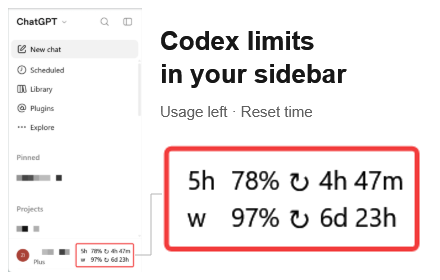
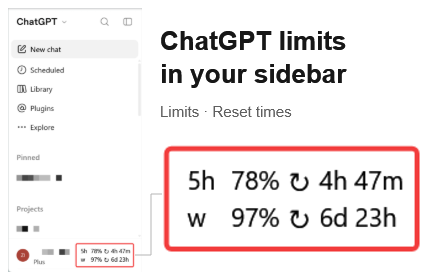
Rename project to ChatGPT Limits in Sidebar

Changed region(s): [[0.3841, 0.0857, 0.7977, 0.2], [0.3545, 0.3714, 0.7091, 0.4286]]

diff --git a/chatgpt-limits.user.js b/chatgpt-limits.user.js
@@ -1,13 +1,13 @@
 // ==UserScript==
-// @name         Codex usage in sidebar
-// @namespace    https://github.com/zizhengwu/codex-limits-in-sidebar
+// @name         ChatGPT limits in sidebar
+// @namespace    https://github.com/zizhengwu/chatgpt-limits-in-sidebar
 // @version      1.2.1
-// @description  Show remaining Codex limits and reset countdowns beside your profile.
+// @description  Show remaining ChatGPT limits and reset countdowns beside your profile.
 // @author       zizhengwu
-// @homepageURL  https://github.com/zizhengwu/codex-limits-in-sidebar
-// @supportURL   https://github.com/zizhengwu/codex-limits-in-sidebar/issues
-// @downloadURL  https://raw.githubusercontent.com/zizhengwu/codex-limits-in-sidebar/main/codex-usage.user.js
-// @updateURL    https://raw.githubusercontent.com/zizhengwu/codex-limits-in-sidebar/main/codex-usage.user.js
+// @homepageURL  https://github.com/zizhengwu/chatgpt-limits-in-sidebar
+// @supportURL   https://github.com/zizhengwu/chatgpt-limits-in-sidebar/issues
+// @downloadURL  https://raw.githubusercontent.com/zizhengwu/chatgpt-limits-in-sidebar/main/chatgpt-limits.user.js
+// @updateURL    https://raw.githubusercontent.com/zizhengwu/chatgpt-limits-in-sidebar/main/chatgpt-limits.user.js
 // @match        https://chatgpt.com/*
 // @grant        none
 // @run-at       document-idle
@@ -15,12 +15,12 @@
 
 (() => {
   'use strict';
-  if (document.getElementById('codex-usage-style')) return;
+  if (document.getElementById('chatgpt-limits-style')) return;
 
   const style = document.createElement('style');
-  style.id = 'codex-usage-style';
+  style.id = 'chatgpt-limits-style';
   style.textContent = `
-    #codex-usage {
+    #chatgpt-limits {
       flex: 0 0 auto;
       display: grid;
       grid-template-columns: max-content 4ch max-content minmax(7ch, max-content);
@@ -34,18 +34,18 @@
       white-space: nowrap;
       pointer-events: auto;
     }
-    #codex-usage:hover { opacity: .7; }
-    #codex-usage > .usage-percent { text-align: right; }
-    #codex-usage > .usage-reset { text-align: center; }
-    #codex-usage > .usage-label,
-    #codex-usage > .usage-countdown { text-align: left; }
+    #chatgpt-limits:hover { opacity: .7; }
+    #chatgpt-limits > .limits-percent { text-align: right; }
+    #chatgpt-limits > .limits-reset { text-align: center; }
+    #chatgpt-limits > .limits-label,
+    #chatgpt-limits > .limits-countdown { text-align: left; }
   `;
   document.head.append(style);
 
   const badge = document.createElement('a');
-  badge.id = 'codex-usage';
+  badge.id = 'chatgpt-limits';
   badge.href = '/settings/usage?tab=overview';
-  badge.title = 'Codex usage: loading…';
+  badge.title = 'ChatGPT limits: loading…';
 
   const labels = ['5-hour', 'Weekly'];
   function resetCountdown(reset, now) {
@@ -77,14 +77,14 @@
         ['label', label], ['percent', left], ['reset', '↻'], ['countdown', time]
       ]) {
         const cell = document.createElement('span');
-        cell.className = `usage-${name}`;
+        cell.className = `limits-${name}`;
         if (name === 'reset') cell.setAttribute('aria-hidden', 'true');
         cell.textContent = text;
         badge.append(cell);
       }
       details.push(`${labels[i]}: ${left === '—' ? 'unavailable' : left + ' left'}; resets: ${validReset ? reset.toLocaleString() : 'unavailable'}`);
     });
-    badge.setAttribute('aria-label', `Codex remaining usage. ${details.join('. ')}. Open usage settings.`);
+    badge.setAttribute('aria-label', `ChatGPT remaining limits. ${details.join('. ')}. Open limit settings.`);
     return details;
   }
   render();
@@ -114,13 +114,13 @@
         headers: { Authorization: `Bearer ${session.accessToken}` },
         signal: AbortSignal.timeout(15000)
       });
-      if (!response.ok) throw new Error(`Usage: ${response.status}`);
+      if (!response.ok) throw new Error(`Limits: ${response.status}`);
       const data = await response.json();
       const windows = [data.rate_limit?.primary_window, data.rate_limit?.secondary_window];
-      badge.title = 'Codex remaining usage (↻ time until reset)\n' + render(windows).join('\n');
+      badge.title = 'ChatGPT remaining limits (↻ time until reset)\n' + render(windows).join('\n');
     } catch (error) {
       render();
-      badge.title = `Codex usage unavailable: ${error.message}. Retrying every minute.`;
+      badge.title = `ChatGPT limits unavailable: ${error.message}. Retrying every minute.`;
     } finally {
       busy = false;
     }

diff --git a/popup.html b/popup.html
@@ -3,22 +3,22 @@
   <head>
     <meta charset="utf-8">
     <meta name="viewport" content="width=device-width, initial-scale=1">
-    <title>Codex Usage in Sidebar</title>
+    <title>ChatGPT Limits in Sidebar</title>
     <link rel="stylesheet" href="popup.css">
   </head>
   <body>
     <header>
       <img src="icons/icon-48.png" width="48" height="48" alt="">
-      <h1>Codex Usage<br>in Sidebar</h1>
+      <h1>ChatGPT Limits<br>in Sidebar</h1>
     </header>
     <p>Your remaining 5-hour and weekly limits appear beside your profile in ChatGPT’s expanded sidebar.</p>
-    <a class="button" href="https://chatgpt.com/settings/usage?tab=overview" target="_blank" rel="noopener noreferrer">Open usage settings <span aria-hidden="true">↗</span></a>
-    <p class="hint">Already have ChatGPT open? Reload it after installing. Sign in and expand the sidebar to see your usage.</p>
+    <a class="button" href="https://chatgpt.com/settings/usage?tab=overview" target="_blank" rel="noopener noreferrer">Open limit settings <span aria-hidden="true">↗</span></a>
+    <p class="hint">Already have ChatGPT open? Reload it after installing. Sign in and expand the sidebar to see your limits.</p>
     <footer>
-      <p>Uses your ChatGPT session to retrieve usage. No analytics or data sent to the developer.</p>
-      <a href="https://github.com/zizhengwu/codex-limits-in-sidebar/blob/main/PRIVACY.md" target="_blank" rel="noopener noreferrer">Privacy</a>
+      <p>Uses your ChatGPT session to retrieve limits. No analytics or data sent to the developer.</p>
+      <a href="https://github.com/zizhengwu/chatgpt-limits-in-sidebar/blob/main/PRIVACY.md" target="_blank" rel="noopener noreferrer">Privacy</a>
       <span aria-hidden="true"> · </span>
-      <a href="https://github.com/zizhengwu/codex-limits-in-sidebar/issues" target="_blank" rel="noopener noreferrer">Support</a>
+      <a href="https://github.com/zizhengwu/chatgpt-limits-in-sidebar/issues" target="_blank" rel="noopener noreferrer">Support</a>
       <p>Independent extension. Not affiliated with OpenAI.</p>
     </footer>
   </body>

diff --git a/tests/sidebar.html b/tests/sidebar.html
@@ -1,7 +1,7 @@
 <!doctype html>
 <html lang="en">
 <meta charset="utf-8">
-<title>Codex Usage in Sidebar — demonstration</title>
+<title>ChatGPT Limits in Sidebar — demonstration</title>
 <style>
   * { box-sizing: border-box; }
   body { margin: 0; font: 16px/1.5 Arial, sans-serif; color: #172b29; background: #f7faf9; }
@@ -24,9 +24,9 @@
   .caption { margin-top: 46px; color: #72817c; font-size: 13px; }
 </style>
 <main>
-  <div class="eyebrow">CODEX USAGE IN SIDEBAR</div>
+  <div class="eyebrow">CHATGPT LIMITS IN SIDEBAR</div>
   <h1>Your limits, at a glance.</h1>
-  <p class="intro">See remaining Codex usage and reset countdowns beside your ChatGPT profile.</p>
+  <p class="intro">See remaining ChatGPT limits and reset countdowns beside your ChatGPT profile.</p>
   <div class="demo">
     <div class="sidebar">
       <div class="nav"><p>New chat</p><p>Search chats</p><p>Library</p></div>
@@ -35,7 +35,7 @@
         <div><div class="row"><span class="avatar">A</span><div class="name">Alex<div class="plan">Plus</div></div></div></div>
       </div>
     </div>
-    <div class="notes"><strong>5h</strong> &nbsp; 5-hour usage remaining<br><strong>w</strong> &nbsp; Weekly usage remaining<br><strong>↻</strong> &nbsp; Time until your limit resets</div>
+    <div class="notes"><strong>5h</strong> &nbsp; 5-hour limit remaining<br><strong>w</strong> &nbsp; Weekly limit remaining<br><strong>↻</strong> &nbsp; Time until your limit resets</div>
   </div>
   <p class="caption">Example data in a demonstration sidebar. Independent extension; not affiliated with OpenAI.</p>
 </main>

diff --git a/store/LISTING.md b/store/LISTING.md
@@ -1,38 +1,38 @@
 # Chrome Web Store listing
 
-**Name:** Codex Usage in Sidebar
+**Name:** ChatGPT Limits in Sidebar
 
-**Summary:** See remaining Codex usage and reset countdowns beside your ChatGPT profile.
+**Summary:** See remaining ChatGPT limits and reset countdowns beside your ChatGPT profile.
 
 ## Description
 
-See your remaining 5-hour and weekly Codex limits in ChatGPT's sidebar. Hover for reset dates or click to open usage settings. Usage refreshes every minute while the tab is visible.
+See your remaining 5-hour and weekly ChatGPT limits in ChatGPT's sidebar. Hover for reset dates or click to open limit settings. Limits refresh every minute while the tab is visible.
 
-After installing, reload ChatGPT and expand the sidebar. You'll need a signed-in account with Codex usage limits. A dash means the data is unavailable.
+After installing, reload ChatGPT and expand the sidebar. You'll need a signed-in ChatGPT account. A dash means the data is unavailable.
 
-Uses your ChatGPT session to fetch usage from ChatGPT. No analytics, ads, or data sent to the developer. Does not read your conversations.
+Uses your ChatGPT session to fetch limits from ChatGPT. No analytics, ads, or data sent to the developer. Does not read your conversations.
 
 Independent extension, not affiliated with OpenAI. Changes to ChatGPT may temporarily break the display.
 
 ## Privacy fields
 
-- **Single purpose:** Show remaining Codex usage and reset countdowns in ChatGPT's sidebar.
-- **Site access:** `https://chatgpt.com/*` is needed to find the profile row and fetch session and usage data.
+- **Single purpose:** Show remaining ChatGPT limits and reset countdowns in ChatGPT's sidebar.
+- **Site access:** `https://chatgpt.com/*` is needed to find the profile row and fetch session and limit data.
 - **Remote code:** None. All code is bundled.
-- **Data handled:** Authentication information (session token), website content (usage limits), and account details included in the session response. Only the token and usage values are used, in memory. Requests go only to ChatGPT.
+- **Data handled:** Authentication information (session token), website content (limits), and account details included in the session response. Only the token and limit values are used, in memory. Requests go only to ChatGPT.
 - **Data use:** No selling, unrelated use, or use for credit or lending decisions.
-- **Privacy URL:** https://github.com/zizhengwu/codex-limits-in-sidebar/blob/main/PRIVACY.md
+- **Privacy URL:** https://github.com/zizhengwu/chatgpt-limits-in-sidebar/blob/main/PRIVACY.md
 
 Publish the privacy file before submitting. Match the dashboard disclosures to this data handling, including data processed only in memory.
 
 ## Links and images
 
-- [Homepage](https://github.com/zizhengwu/codex-limits-in-sidebar)
-- [Support](https://github.com/zizhengwu/codex-limits-in-sidebar/issues)
+- [Homepage](https://github.com/zizhengwu/chatgpt-limits-in-sidebar)
+- [Support](https://github.com/zizhengwu/chatgpt-limits-in-sidebar/issues)
 - Icon: `icons/icon-128.png`
 - Promotional image: `store/promo-440x280.png`
 - Screenshot: `store/screenshot-1280x800.png` — actual sidebar with a zoomed crop.
 
 ## Reviewer instructions
 
-Sign in to ChatGPT with an account that has Codex limits, reload, and expand the sidebar. Check the usage beside the profile, hover for reset dates, and click to open settings. The toolbar popup also links to settings. Unavailable data appears as dashes.
+Sign in to ChatGPT with an account that has ChatGPT limits, reload, and expand the sidebar. Check the limits beside the profile, hover for reset dates, and click to open settings. The toolbar popup also links to settings. Unavailable data appears as dashes.

diff --git a/README.md b/README.md
@@ -1,8 +1,8 @@
-# Codex sidebar usage
+# ChatGPT limits in sidebar
 
-Shows your remaining 5-hour and weekly Codex limits beside your ChatGPT profile.
+Shows your remaining 5-hour and weekly ChatGPT limits beside your ChatGPT profile.
 
-![Codex usage and reset countdowns in the ChatGPT sidebar](store/screenshot-1280x800.png)
+![ChatGPT limits and reset countdowns in the ChatGPT sidebar](store/screenshot-1280x800.png)
 
 ## Chrome extension
 
@@ -12,7 +12,7 @@ Shows your remaining 5-hour and weekly Codex limits beside your ChatGPT profile.
 
 ## Userscript
 
-With Tampermonkey or Violentmonkey installed, [install the script](https://raw.githubusercontent.com/zizhengwu/codex-limits-in-sidebar/main/codex-usage.user.js) and reload ChatGPT. If the link opens as text, paste it into a new script in your userscript manager.
+With Tampermonkey or Violentmonkey installed, [install the script](https://raw.githubusercontent.com/zizhengwu/chatgpt-limits-in-sidebar/main/chatgpt-limits.user.js) and reload ChatGPT.
 
 
-[Privacy](PRIVACY.md) · [Report a bug](https://github.com/zizhengwu/codex-limits-in-sidebar/issues)
+[Privacy](PRIVACY.md) · [Report a bug](https://github.com/zizhengwu/chatgpt-limits-in-sidebar/issues)

diff --git a/PRIVACY.md b/PRIVACY.md
@@ -1,3 +1,3 @@
 # Privacy policy
 
-This extension and userscript use your ChatGPT session token to fetch your Codex limits from ChatGPT. Tokens and usage data stay in memory and are sent only to ChatGPT over HTTPS. Nothing is saved by the extension or sent to the developer. No analytics, ads, or conversation access.
+This extension and userscript use your ChatGPT session token to fetch your ChatGPT limits from ChatGPT. Tokens and limit data stay in memory and are sent only to ChatGPT over HTTPS. Nothing is saved by the extension or sent to the developer. No analytics, ads, or conversation access.

diff --git a/PUBLISHING.md b/PUBLISHING.md
@@ -6,7 +6,7 @@ Run in PowerShell 7:
 ./scripts/package.ps1
 ```
 
-For updates, increase the version in both `manifest.json` and `codex-usage.user.js`, then rebuild.
+For updates, increase the version in both `manifest.json` and `chatgpt-limits.user.js`, then rebuild.
 
 ## Tests
 
